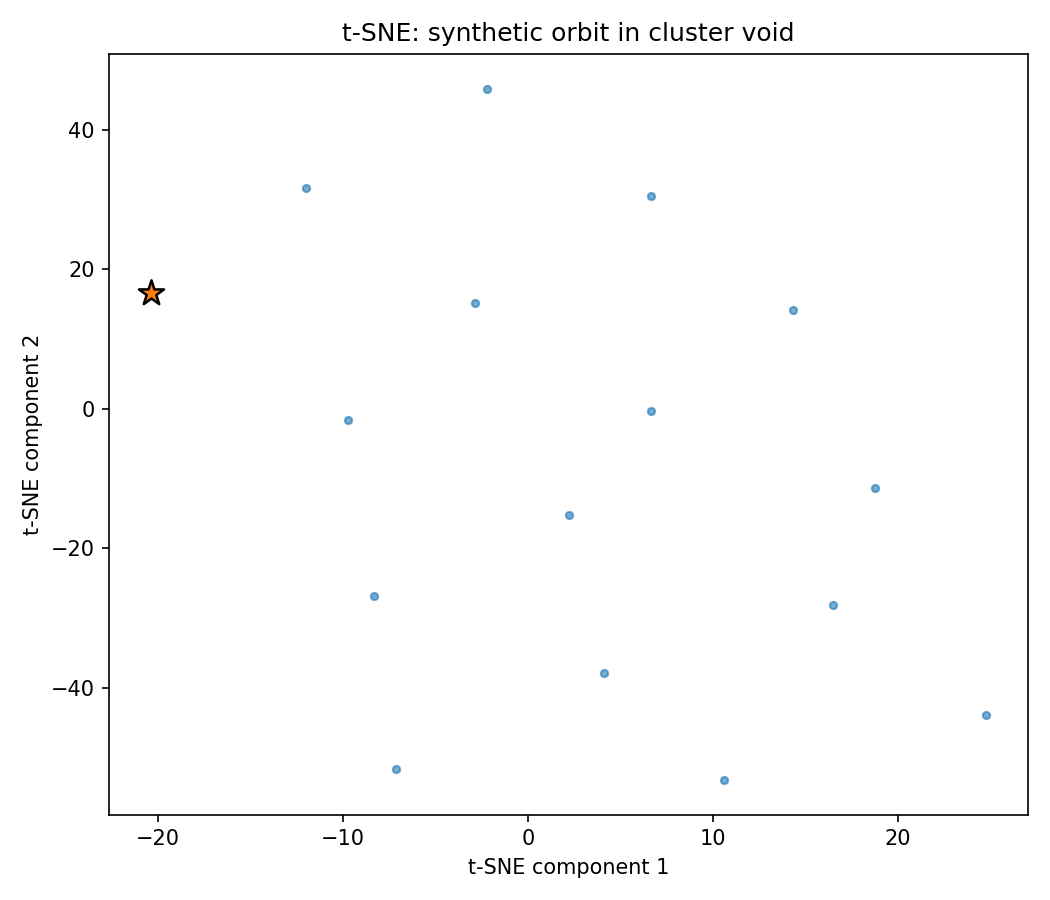
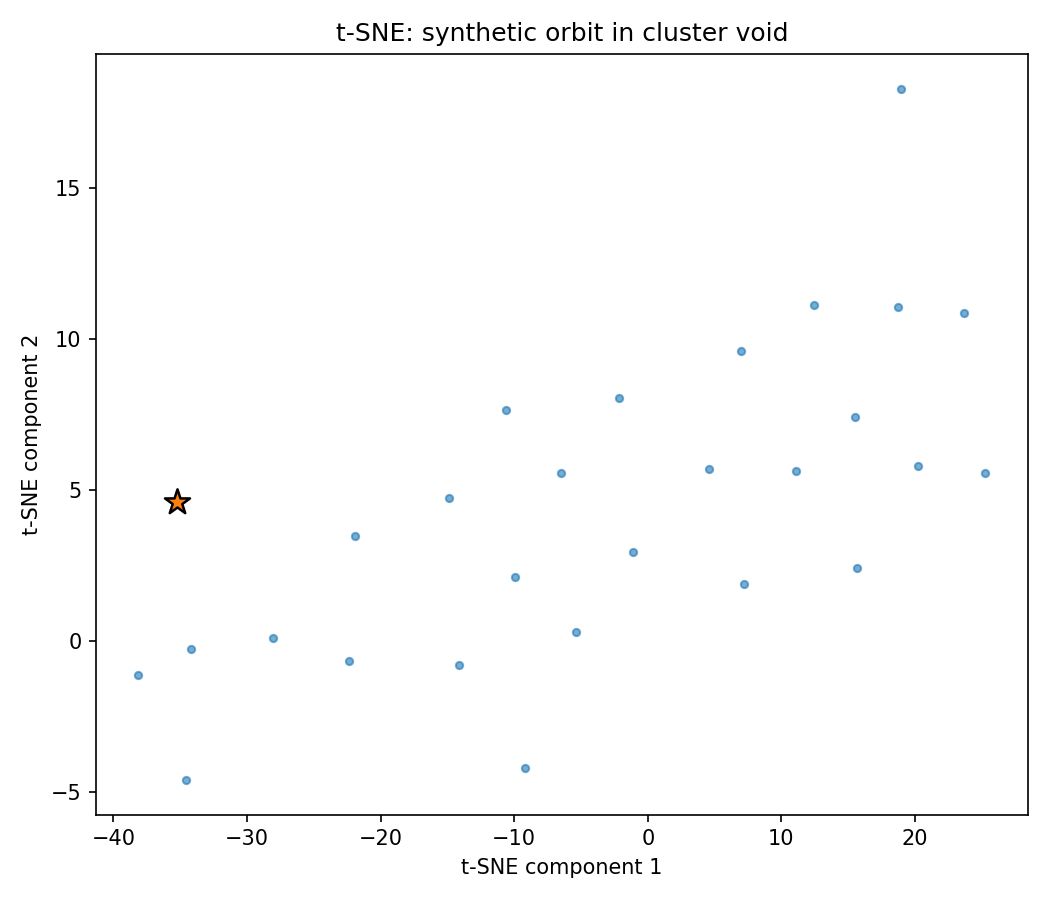
Added distance matrix cleansing. currently is plotting expected results and t-sne looks usable. Next step is to get the data for the average orbit.

diff --git a/data/tsne_void_diagnostic.html b/data/tsne_void_diagnostic.html
@@ -2,6 +2,6 @@
 <head><meta charset="utf-8" /></head>
 <body>
     <div>                        <script type="text/javascript">window.PlotlyConfig = {MathJaxConfig: 'local'};</script>
-        <script charset="utf-8" src="https://cdn.plot.ly/plotly-3.3.0.min.js" integrity="sha256-bO3dS6yCpk9aK4gUpNELtCiDeSYvGYnK7jFI58NQnHI=" crossorigin="anonymous"></script>                <div id="558a13c2-1f59-40e8-8add-4b65fc4a1c01" class="plotly-graph-div" style="height:650px; width:800px;"></div>            <script type="text/javascript">                window.PLOTLYENV=window.PLOTLYENV || {};                                if (document.getElementById("558a13c2-1f59-40e8-8add-4b65fc4a1c01")) {                    Plotly.newPlot(                        "558a13c2-1f59-40e8-8add-4b65fc4a1c01",                        [{"hovertemplate":"SatNo: %{text}\u003cextra\u003e\u003c\u002fextra\u003e","marker":{"color":"rgba(100,100,100,0.6)","opacity":0.7,"size":6},"mode":"markers","name":"Cluster orbits","text":["64842","64843","64844","64845","64846","64847","64850","64851","64852","64853","64855","64857","64860","64862","64864"],"x":{"dtype":"f4","bdata":"K33jwJkqlkEv+oNBKxfGQaUjZUHSpTfAsasNQGeIg0B\u002fRhvBTyQqQRWS1UAswNVAnkQFwajsDsCiOEDB"},"y":{"dtype":"f4","bdata":"vXZOwrNlNsHUC+HBZeQvwjL2YkHF7XJBWO90wWuSF8IAHMW\u002fEg9VwjvRxL7ArfNBKnLWwXzDN0KsPf1B"},"type":"scatter"},{"hovertemplate":"%{text}\u003cextra\u003e\u003c\u002fextra\u003e","marker":{"color":"crimson","line":{"color":"black","width":2},"size":18,"symbol":"star"},"mode":"markers","name":"Synthetic void orbit","text":["Synthetic orbit (99999)"],"x":{"dtype":"f4","bdata":"D\u002fGiwQ=="},"y":{"dtype":"f4","bdata":"YR2FQQ=="},"type":"scatter"}],                        {"template":{"data":{"barpolar":[{"marker":{"line":{"color":"white","width":0.5},"pattern":{"fillmode":"overlay","size":10,"solidity":0.2}},"type":"barpolar"}],"bar":[{"error_x":{"color":"#2a3f5f"},"error_y":{"color":"#2a3f5f"},"marker":{"line":{"color":"white","width":0.5},"pattern":{"fillmode":"overlay","size":10,"solidity":0.2}},"type":"bar"}],"carpet":[{"aaxis":{"endlinecolor":"#2a3f5f","gridcolor":"#C8D4E3","linecolor":"#C8D4E3","minorgridcolor":"#C8D4E3","startlinecolor":"#2a3f5f"},"baxis":{"endlinecolor":"#2a3f5f","gridcolor":"#C8D4E3","linecolor":"#C8D4E3","minorgridcolor":"#C8D4E3","startlinecolor":"#2a3f5f"},"type":"carpet"}],"choropleth":[{"colorbar":{"outlinewidth":0,"ticks":""},"type":"choropleth"}],"contourcarpet":[{"colorbar":{"outlinewidth":0,"ticks":""},"type":"contourcarpet"}],"contour":[{"colorbar":{"outlinewidth":0,"ticks":""},"colorscale":[[0.0,"#0d0887"],[0.1111111111111111,"#46039f"],[0.2222222222222222,"#7201a8"],[0.3333333333333333,"#9c179e"],[0.4444444444444444,"#bd3786"],[0.5555555555555556,"#d8576b"],[0.6666666666666666,"#ed7953"],[0.7777777777777778,"#fb9f3a"],[0.8888888888888888,"#fdca26"],[1.0,"#f0f921"]],"type":"contour"}],"heatmap":[{"colorbar":{"outlinewidth":0,"ticks":""},"colorscale":[[0.0,"#0d0887"],[0.1111111111111111,"#46039f"],[0.2222222222222222,"#7201a8"],[0.3333333333333333,"#9c179e"],[0.4444444444444444,"#bd3786"],[0.5555555555555556,"#d8576b"],[0.6666666666666666,"#ed7953"],[0.7777777777777778,"#fb9f3a"],[0.8888888888888888,"#fdca26"],[1.0,"#f0f921"]],"type":"heatmap"}],"histogram2dcontour":[{"colorbar":{"outlinewidth":0,"ticks":""},"colorscale":[[0.0,"#0d0887"],[0.1111111111111111,"#46039f"],[0.2222222222222222,"#7201a8"],[0.3333333333333333,"#9c179e"],[0.4444444444444444,"#bd3786"],[0.5555555555555556,"#d8576b"],[0.6666666666666666,"#ed7953"],[0.7777777777777778,"#fb9f3a"],[0.8888888888888888,"#fdca26"],[1.0,"#f0f921"]],"type":"histogram2dcontour"}],"histogram2d":[{"colorbar":{"outlinewidth":0,"ticks":""},"colorscale":[[0.0,"#0d0887"],[0.1111111111111111,"#46039f"],[0.2222222222222222,"#7201a8"],[0.3333333333333333,"#9c179e"],[0.4444444444444444,"#bd3786"],[0.5555555555555556,"#d8576b"],[0.6666666666666666,"#ed7953"],[0.7777777777777778,"#fb9f3a"],[0.8888888888888888,"#fdca26"],[1.0,"#f0f921"]],"type":"histogram2d"}],"histogram":[{"marker":{"pattern":{"fillmode":"overlay","size":10,"solidity":0.2}},"type":"histogram"}],"mesh3d":[{"colorbar":{"outlinewidth":0,"ticks":""},"type":"mesh3d"}],"parcoords":[{"line":{"colorbar":{"outlinewidth":0,"ticks":""}},"type":"parcoords"}],"pie":[{"automargin":true,"type":"pie"}],"scatter3d":[{"line":{"colorbar":{"outlinewidth":0,"ticks":""}},"marker":{"colorbar":{"outlinewidth":0,"ticks":""}},"type":"scatter3d"}],"scattercarpet":[{"marker":{"colorbar":{"outlinewidth":0,"ticks":""}},"type":"scattercarpet"}],"scattergeo":[{"marker":{"colorbar":{"outlinewidth":0,"ticks":""}},"type":"scattergeo"}],"scattergl":[{"marker":{"colorbar":{"outlinewidth":0,"ticks":""}},"type":"scattergl"}],"scattermapbox":[{"marker":{"colorbar":{"outlinewidth":0,"ticks":""}},"type":"scattermapbox"}],"scattermap":[{"marker":{"colorbar":{"outlinewidth":0,"ticks":""}},"type":"scattermap"}],"scatterpolargl":[{"marker":{"colorbar":{"outlinewidth":0,"ticks":""}},"type":"scatterpolargl"}],"scatterpolar":[{"marker":{"colorbar":{"outlinewidth":0,"ticks":""}},"type":"scatterpolar"}],"scatter":[{"fillpattern":{"fillmode":"overlay","size":10,"solidity":0.2},"type":"scatter"}],"scatterternary":[{"marker":{"colorbar":{"outlinewidth":0,"ticks":""}},"type":"scatterternary"}],"surface":[{"colorbar":{"outlinewidth":0,"ticks":""},"colorscale":[[0.0,"#0d0887"],[0.1111111111111111,"#46039f"],[0.2222222222222222,"#7201a8"],[0.3333333333333333,"#9c179e"],[0.4444444444444444,"#bd3786"],[0.5555555555555556,"#d8576b"],[0.6666666666666666,"#ed7953"],[0.7777777777777778,"#fb9f3a"],[0.8888888888888888,"#fdca26"],[1.0,"#f0f921"]],"type":"surface"}],"table":[{"cells":{"fill":{"color":"#EBF0F8"},"line":{"color":"white"}},"header":{"fill":{"color":"#C8D4E3"},"line":{"color":"white"}},"type":"table"}]},"layout":{"annotationdefaults":{"arrowcolor":"#2a3f5f","arrowhead":0,"arrowwidth":1},"autotypenumbers":"strict","coloraxis":{"colorbar":{"outlinewidth":0,"ticks":""}},"colorscale":{"diverging":[[0,"#8e0152"],[0.1,"#c51b7d"],[0.2,"#de77ae"],[0.3,"#f1b6da"],[0.4,"#fde0ef"],[0.5,"#f7f7f7"],[0.6,"#e6f5d0"],[0.7,"#b8e186"],[0.8,"#7fbc41"],[0.9,"#4d9221"],[1,"#276419"]],"sequential":[[0.0,"#0d0887"],[0.1111111111111111,"#46039f"],[0.2222222222222222,"#7201a8"],[0.3333333333333333,"#9c179e"],[0.4444444444444444,"#bd3786"],[0.5555555555555556,"#d8576b"],[0.6666666666666666,"#ed7953"],[0.7777777777777778,"#fb9f3a"],[0.8888888888888888,"#fdca26"],[1.0,"#f0f921"]],"sequentialminus":[[0.0,"#0d0887"],[0.1111111111111111,"#46039f"],[0.2222222222222222,"#7201a8"],[0.3333333333333333,"#9c179e"],[0.4444444444444444,"#bd3786"],[0.5555555555555556,"#d8576b"],[0.6666666666666666,"#ed7953"],[0.7777777777777778,"#fb9f3a"],[0.8888888888888888,"#fdca26"],[1.0,"#f0f921"]]},"colorway":["#636efa","#EF553B","#00cc96","#ab63fa","#FFA15A","#19d3f3","#FF6692","#B6E880","#FF97FF","#FECB52"],"font":{"color":"#2a3f5f"},"geo":{"bgcolor":"white","lakecolor":"white","landcolor":"white","showlakes":true,"showland":true,"subunitcolor":"#C8D4E3"},"hoverlabel":{"align":"left"},"hovermode":"closest","mapbox":{"style":"light"},"paper_bgcolor":"white","plot_bgcolor":"white","polar":{"angularaxis":{"gridcolor":"#EBF0F8","linecolor":"#EBF0F8","ticks":""},"bgcolor":"white","radialaxis":{"gridcolor":"#EBF0F8","linecolor":"#EBF0F8","ticks":""}},"scene":{"xaxis":{"backgroundcolor":"white","gridcolor":"#DFE8F3","gridwidth":2,"linecolor":"#EBF0F8","showbackground":true,"ticks":"","zerolinecolor":"#EBF0F8"},"yaxis":{"backgroundcolor":"white","gridcolor":"#DFE8F3","gridwidth":2,"linecolor":"#EBF0F8","showbackground":true,"ticks":"","zerolinecolor":"#EBF0F8"},"zaxis":{"backgroundcolor":"white","gridcolor":"#DFE8F3","gridwidth":2,"linecolor":"#EBF0F8","showbackground":true,"ticks":"","zerolinecolor":"#EBF0F8"}},"shapedefaults":{"line":{"color":"#2a3f5f"}},"ternary":{"aaxis":{"gridcolor":"#DFE8F3","linecolor":"#A2B1C6","ticks":""},"baxis":{"gridcolor":"#DFE8F3","linecolor":"#A2B1C6","ticks":""},"bgcolor":"white","caxis":{"gridcolor":"#DFE8F3","linecolor":"#A2B1C6","ticks":""}},"title":{"x":0.05},"xaxis":{"automargin":true,"gridcolor":"#EBF0F8","linecolor":"#EBF0F8","ticks":"","title":{"standoff":15},"zerolinecolor":"#EBF0F8","zerolinewidth":2},"yaxis":{"automargin":true,"gridcolor":"#EBF0F8","linecolor":"#EBF0F8","ticks":"","title":{"standoff":15},"zerolinecolor":"#EBF0F8","zerolinewidth":2}}},"legend":{"itemsizing":"constant"},"title":{"text":"t-SNE diagnostic: cluster vs synthetic void orbit"},"xaxis":{"title":{"text":"t-SNE component 1"}},"yaxis":{"title":{"text":"t-SNE component 2"}},"width":800,"height":650},                        {"responsive": true}                    )                };            </script>        </div>
+        <script charset="utf-8" src="https://cdn.plot.ly/plotly-3.3.0.min.js" integrity="sha256-bO3dS6yCpk9aK4gUpNELtCiDeSYvGYnK7jFI58NQnHI=" crossorigin="anonymous"></script>                <div id="afd1cd51-1e0f-4dbc-afd5-656ede8d7199" class="plotly-graph-div" style="height:650px; width:800px;"></div>            <script type="text/javascript">                window.PLOTLYENV=window.PLOTLYENV || {};                                if (document.getElementById("afd1cd51-1e0f-4dbc-afd5-656ede8d7199")) {                    Plotly.newPlot(                        "afd1cd51-1e0f-4dbc-afd5-656ede8d7199",                        [{"hovertemplate":"SatNo: %{text}\u003cextra\u003e\u003c\u002fextra\u003e","marker":{"color":"rgba(100,100,100,0.6)","opacity":0.7,"size":6},"mode":"markers","name":"Cluster orbits","text":["39418","43762","43790","43794","57400","64146","64147","64148","64149","64150","64151","64152","64153","64155","64156","64157","64158","64159","64160","64161","64163","64164","64165","64166","64167","64169","65290"],"x":{"dtype":"f4","bdata":"eIIYwtxT4MExe5dB4eEIwrI\u002fCsJcuHdBm93PwMuSoUEeF8pBiJoTwVpAr8FrDZJAXcgKwCoJbsHWFzFBZFGrwKO0vUHCeXpBoonlQLxRKsF7KEdBsmHeQBb5ib8HXR\u002fBP9NhwbW+lUE3FrPB"},"y":{"dtype":"f4","bdata":"3FKPv66snT2ygpJBYmWMvmS3k8DcAO5AGJKxQDS7uUDcvLFAeMqGwCmIXkD6SLZACNkAQQERmEApuLNAEp2dPsMFLkFHpRpA3yPvPzC29EALSDJBHqgZQRWTPEDzJwhATn5JvyEMMUEv0Cq\u002f"},"type":"scatter"},{"hovertemplate":"%{text}\u003cextra\u003e\u003c\u002fextra\u003e","marker":{"color":"crimson","line":{"color":"black","width":2},"size":18,"symbol":"star"},"mode":"markers","name":"Synthetic void orbit","text":["Synthetic orbit (99999)"],"x":{"dtype":"f4","bdata":"BuUMwg=="},"y":{"dtype":"f4","bdata":"u3WTQA=="},"type":"scatter"}],                        {"template":{"data":{"barpolar":[{"marker":{"line":{"color":"white","width":0.5},"pattern":{"fillmode":"overlay","size":10,"solidity":0.2}},"type":"barpolar"}],"bar":[{"error_x":{"color":"#2a3f5f"},"error_y":{"color":"#2a3f5f"},"marker":{"line":{"color":"white","width":0.5},"pattern":{"fillmode":"overlay","size":10,"solidity":0.2}},"type":"bar"}],"carpet":[{"aaxis":{"endlinecolor":"#2a3f5f","gridcolor":"#C8D4E3","linecolor":"#C8D4E3","minorgridcolor":"#C8D4E3","startlinecolor":"#2a3f5f"},"baxis":{"endlinecolor":"#2a3f5f","gridcolor":"#C8D4E3","linecolor":"#C8D4E3","minorgridcolor":"#C8D4E3","startlinecolor":"#2a3f5f"},"type":"carpet"}],"choropleth":[{"colorbar":{"outlinewidth":0,"ticks":""},"type":"choropleth"}],"contourcarpet":[{"colorbar":{"outlinewidth":0,"ticks":""},"type":"contourcarpet"}],"contour":[{"colorbar":{"outlinewidth":0,"ticks":""},"colorscale":[[0.0,"#0d0887"],[0.1111111111111111,"#46039f"],[0.2222222222222222,"#7201a8"],[0.3333333333333333,"#9c179e"],[0.4444444444444444,"#bd3786"],[0.5555555555555556,"#d8576b"],[0.6666666666666666,"#ed7953"],[0.7777777777777778,"#fb9f3a"],[0.8888888888888888,"#fdca26"],[1.0,"#f0f921"]],"type":"contour"}],"heatmap":[{"colorbar":{"outlinewidth":0,"ticks":""},"colorscale":[[0.0,"#0d0887"],[0.1111111111111111,"#46039f"],[0.2222222222222222,"#7201a8"],[0.3333333333333333,"#9c179e"],[0.4444444444444444,"#bd3786"],[0.5555555555555556,"#d8576b"],[0.6666666666666666,"#ed7953"],[0.7777777777777778,"#fb9f3a"],[0.8888888888888888,"#fdca26"],[1.0,"#f0f921"]],"type":"heatmap"}],"histogram2dcontour":[{"colorbar":{"outlinewidth":0,"ticks":""},"colorscale":[[0.0,"#0d0887"],[0.1111111111111111,"#46039f"],[0.2222222222222222,"#7201a8"],[0.3333333333333333,"#9c179e"],[0.4444444444444444,"#bd3786"],[0.5555555555555556,"#d8576b"],[0.6666666666666666,"#ed7953"],[0.7777777777777778,"#fb9f3a"],[0.8888888888888888,"#fdca26"],[1.0,"#f0f921"]],"type":"histogram2dcontour"}],"histogram2d":[{"colorbar":{"outlinewidth":0,"ticks":""},"colorscale":[[0.0,"#0d0887"],[0.1111111111111111,"#46039f"],[0.2222222222222222,"#7201a8"],[0.3333333333333333,"#9c179e"],[0.4444444444444444,"#bd3786"],[0.5555555555555556,"#d8576b"],[0.6666666666666666,"#ed7953"],[0.7777777777777778,"#fb9f3a"],[0.8888888888888888,"#fdca26"],[1.0,"#f0f921"]],"type":"histogram2d"}],"histogram":[{"marker":{"pattern":{"fillmode":"overlay","size":10,"solidity":0.2}},"type":"histogram"}],"mesh3d":[{"colorbar":{"outlinewidth":0,"ticks":""},"type":"mesh3d"}],"parcoords":[{"line":{"colorbar":{"outlinewidth":0,"ticks":""}},"type":"parcoords"}],"pie":[{"automargin":true,"type":"pie"}],"scatter3d":[{"line":{"colorbar":{"outlinewidth":0,"ticks":""}},"marker":{"colorbar":{"outlinewidth":0,"ticks":""}},"type":"scatter3d"}],"scattercarpet":[{"marker":{"colorbar":{"outlinewidth":0,"ticks":""}},"type":"scattercarpet"}],"scattergeo":[{"marker":{"colorbar":{"outlinewidth":0,"ticks":""}},"type":"scattergeo"}],"scattergl":[{"marker":{"colorbar":{"outlinewidth":0,"ticks":""}},"type":"scattergl"}],"scattermapbox":[{"marker":{"colorbar":{"outlinewidth":0,"ticks":""}},"type":"scattermapbox"}],"scattermap":[{"marker":{"colorbar":{"outlinewidth":0,"ticks":""}},"type":"scattermap"}],"scatterpolargl":[{"marker":{"colorbar":{"outlinewidth":0,"ticks":""}},"type":"scatterpolargl"}],"scatterpolar":[{"marker":{"colorbar":{"outlinewidth":0,"ticks":""}},"type":"scatterpolar"}],"scatter":[{"fillpattern":{"fillmode":"overlay","size":10,"solidity":0.2},"type":"scatter"}],"scatterternary":[{"marker":{"colorbar":{"outlinewidth":0,"ticks":""}},"type":"scatterternary"}],"surface":[{"colorbar":{"outlinewidth":0,"ticks":""},"colorscale":[[0.0,"#0d0887"],[0.1111111111111111,"#46039f"],[0.2222222222222222,"#7201a8"],[0.3333333333333333,"#9c179e"],[0.4444444444444444,"#bd3786"],[0.5555555555555556,"#d8576b"],[0.6666666666666666,"#ed7953"],[0.7777777777777778,"#fb9f3a"],[0.8888888888888888,"#fdca26"],[1.0,"#f0f921"]],"type":"surface"}],"table":[{"cells":{"fill":{"color":"#EBF0F8"},"line":{"color":"white"}},"header":{"fill":{"color":"#C8D4E3"},"line":{"color":"white"}},"type":"table"}]},"layout":{"annotationdefaults":{"arrowcolor":"#2a3f5f","arrowhead":0,"arrowwidth":1},"autotypenumbers":"strict","coloraxis":{"colorbar":{"outlinewidth":0,"ticks":""}},"colorscale":{"diverging":[[0,"#8e0152"],[0.1,"#c51b7d"],[0.2,"#de77ae"],[0.3,"#f1b6da"],[0.4,"#fde0ef"],[0.5,"#f7f7f7"],[0.6,"#e6f5d0"],[0.7,"#b8e186"],[0.8,"#7fbc41"],[0.9,"#4d9221"],[1,"#276419"]],"sequential":[[0.0,"#0d0887"],[0.1111111111111111,"#46039f"],[0.2222222222222222,"#7201a8"],[0.3333333333333333,"#9c179e"],[0.4444444444444444,"#bd3786"],[0.5555555555555556,"#d8576b"],[0.6666666666666666,"#ed7953"],[0.7777777777777778,"#fb9f3a"],[0.8888888888888888,"#fdca26"],[1.0,"#f0f921"]],"sequentialminus":[[0.0,"#0d0887"],[0.1111111111111111,"#46039f"],[0.2222222222222222,"#7201a8"],[0.3333333333333333,"#9c179e"],[0.4444444444444444,"#bd3786"],[0.5555555555555556,"#d8576b"],[0.6666666666666666,"#ed7953"],[0.7777777777777778,"#fb9f3a"],[0.8888888888888888,"#fdca26"],[1.0,"#f0f921"]]},"colorway":["#636efa","#EF553B","#00cc96","#ab63fa","#FFA15A","#19d3f3","#FF6692","#B6E880","#FF97FF","#FECB52"],"font":{"color":"#2a3f5f"},"geo":{"bgcolor":"white","lakecolor":"white","landcolor":"white","showlakes":true,"showland":true,"subunitcolor":"#C8D4E3"},"hoverlabel":{"align":"left"},"hovermode":"closest","mapbox":{"style":"light"},"paper_bgcolor":"white","plot_bgcolor":"white","polar":{"angularaxis":{"gridcolor":"#EBF0F8","linecolor":"#EBF0F8","ticks":""},"bgcolor":"white","radialaxis":{"gridcolor":"#EBF0F8","linecolor":"#EBF0F8","ticks":""}},"scene":{"xaxis":{"backgroundcolor":"white","gridcolor":"#DFE8F3","gridwidth":2,"linecolor":"#EBF0F8","showbackground":true,"ticks":"","zerolinecolor":"#EBF0F8"},"yaxis":{"backgroundcolor":"white","gridcolor":"#DFE8F3","gridwidth":2,"linecolor":"#EBF0F8","showbackground":true,"ticks":"","zerolinecolor":"#EBF0F8"},"zaxis":{"backgroundcolor":"white","gridcolor":"#DFE8F3","gridwidth":2,"linecolor":"#EBF0F8","showbackground":true,"ticks":"","zerolinecolor":"#EBF0F8"}},"shapedefaults":{"line":{"color":"#2a3f5f"}},"ternary":{"aaxis":{"gridcolor":"#DFE8F3","linecolor":"#A2B1C6","ticks":""},"baxis":{"gridcolor":"#DFE8F3","linecolor":"#A2B1C6","ticks":""},"bgcolor":"white","caxis":{"gridcolor":"#DFE8F3","linecolor":"#A2B1C6","ticks":""}},"title":{"x":0.05},"xaxis":{"automargin":true,"gridcolor":"#EBF0F8","linecolor":"#EBF0F8","ticks":"","title":{"standoff":15},"zerolinecolor":"#EBF0F8","zerolinewidth":2},"yaxis":{"automargin":true,"gridcolor":"#EBF0F8","linecolor":"#EBF0F8","ticks":"","title":{"standoff":15},"zerolinecolor":"#EBF0F8","zerolinewidth":2}}},"legend":{"itemsizing":"constant"},"title":{"text":"t-SNE diagnostic: cluster vs synthetic void orbit"},"xaxis":{"title":{"text":"t-SNE component 1"}},"yaxis":{"title":{"text":"t-SNE component 2"}},"width":800,"height":650},                        {"responsive": true}                    )                };            </script>        </div>
 </body>
 </html>

diff --git a/unique_orbits/uct_fitting/main.py b/unique_orbits/uct_fitting/main.py
@@ -11,6 +11,9 @@ from app import SatelliteClusteringApp
 from tools.DMT import VectorizedKeplerianOrbit
 from tle_parser import TLEParser
 from configs import ClusterConfig, OrbitalConstants, PathConfig
+from sklearn.manifold import TSNE
+import matplotlib.pyplot as plt
+import plotly.graph_objects as go
 
 """
 This file is used to process the given elset data into a distance matrix and save
@@ -134,14 +137,133 @@ class UCTFitting:
     
 
     def graph_tsne(self, df: pd.DataFrame):
-        pass
+        """
+        Diagnostic t-SNE plot showing a cluster and its synthetic void orbit.
+        """
 
+        df = df.copy()
+
+        # --- identify synthetic orbit ---
+        void_mask = df['satNo'] == '99999'
+        if void_mask.sum() != 1:
+            print("No unique synthetic orbit found for t-SNE plot.")
+            return
+
+        real_mask = ~void_mask
+
+        # --- build Keplerian distance matrix ---
+        line1 = df['line1'].values
+        line2 = df['line2'].values
+        orbits = VectorizedKeplerianOrbit(line1, line2)
+        D = VectorizedKeplerianOrbit.DistanceMetric(orbits, orbits)
+
+        # --- t-SNE on distance matrix ---
+        tsne = TSNE(
+            n_components=2,
+            metric="precomputed",
+            perplexity=min(10, len(df) - 1),
+            init="random",
+            random_state=42
+        )
+        
+        D = np.asarray(D)
+
+        # kill tiny negative roundoff
+        D[D < 0] = 0.0
+
+        # force exact zeros on diagonal
+        np.fill_diagonal(D, 0.0)
+        X_2d = tsne.fit_transform(D)
+
+        # ================================
+        # Plotly (interactive)
+        # ================================
+        fig = go.Figure()
+
+        # real cluster orbits
+        fig.add_trace(go.Scatter(
+            x=X_2d[real_mask, 0],
+            y=X_2d[real_mask, 1],
+            mode="markers",
+            name="Cluster orbits",
+            marker=dict(
+                size=6,
+                opacity=0.7,
+                color="rgba(100,100,100,0.6)"
+            ),
+            text=df.loc[real_mask, 'satNo'],
+            hovertemplate="SatNo: %{text}<extra></extra>"
+        ))
+
+        # synthetic orbit
+        fig.add_trace(go.Scatter(
+            x=X_2d[void_mask, 0],
+            y=X_2d[void_mask, 1],
+            mode="markers",
+            name="Synthetic void orbit",
+            marker=dict(
+                symbol="star",
+                size=18,
+                color="crimson",
+                line=dict(width=2, color="black")
+            ),
+            text=["Synthetic orbit (99999)"],
+            hovertemplate="%{text}<extra></extra>"
+        ))
+
+        fig.update_layout(
+            title="t-SNE diagnostic: cluster vs synthetic void orbit",
+            xaxis_title="t-SNE component 1",
+            yaxis_title="t-SNE component 2",
+            template="plotly_white",
+            width=800,
+            height=650,
+            legend=dict(itemsizing="constant")
+        )
+
+        out_html = "data/tsne_void_diagnostic.html"
+        fig.write_html(str(out_html), include_plotlyjs="cdn")
+        print(f"Saved t-SNE void diagnostic to {out_html}")
+
+        # ================================
+        # Matplotlib (paper-ready)
+        # ================================
+        plt.figure(figsize=(7, 6), dpi=150)
+
+        plt.scatter(
+            X_2d[real_mask, 0],
+            X_2d[real_mask, 1],
+            s=12,
+            alpha=0.6
+        )
+
+        plt.scatter(
+            X_2d[void_mask, 0],
+            X_2d[void_mask, 1],
+            s=160,
+            marker="*",
+            edgecolor="black",
+            linewidth=1.2,
+            zorder=5
+        )
+
+        plt.title("t-SNE: synthetic orbit in cluster void")
+        plt.xlabel("t-SNE component 1")
+        plt.ylabel("t-SNE component 2")
+        plt.tight_layout()
+
+        out_png = "data/tsne_void_diagnostic.png"
+        plt.savefig(out_png)
+        plt.close()
+
+        print(f"Saved t-SNE PNG to {out_png}")
 
     def czml_main(self):
 
 
         df = self.load_tle_dataframe_for_file()
         self.graph_tsne(df.copy())
+        
         if df is None or df.empty:
             print("No TLE data loaded. Quitting.")
             return
